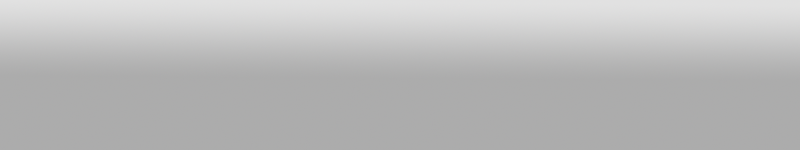
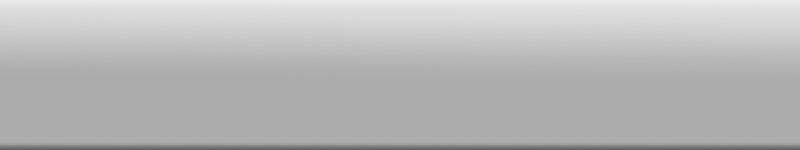
Implemented control panel scrolling. Generalized button location in LayoutManager. Fixed undo button skin. Updated control panel background skin.

Changed region(s): [[0.0, 0.96, 1.0, 1.0]]

diff --git a/Automatone/Automatone/GUI/ControlPanel.cs b/Automatone/Automatone/GUI/ControlPanel.cs
@@ -1,6 +1,8 @@
 //#define USESEED
 
 using System;
+using System.Collections.Generic;
+using System.Linq;
 using System.IO;
 using System.Windows.Forms;
 using System.Runtime.Serialization.Formatters.Binary;
@@ -14,6 +16,8 @@ namespace Automatone.GUI
 {
     public class ControlPanel : SkinNamedWindowControl
     {
+        private SkinNamedButtonControl arrowLeftButton;
+        private SkinNamedButtonControl arrowRightButton;
         private SkinNamedButtonControl generateSongButton;
         private OptionControl playPauseButton;
         private SkinNamedButtonControl stopButton;
@@ -28,6 +32,9 @@ namespace Automatone.GUI
         private SkinNamedButtonControl removeCellsButton;
         private SkinNamedButtonControl undoButton;
 
+        public UniRectangle ArrowLeftBounds { set { arrowLeftButton.Bounds = value; } }
+        public UniRectangle ArrowRightBounds { set { arrowRightButton.Bounds = value; } }
+        /*
         public UniRectangle GenerateSongButtonBounds { set { generateSongButton.Bounds = value; } }
         public UniRectangle PlayPauseButtonBounds { set { playPauseButton.Bounds = value; } }
         public UniRectangle StopButtonBounds { set { stopButton.Bounds = value; } }
@@ -40,7 +47,11 @@ namespace Automatone.GUI
         public UniRectangle PasteButtonBounds { set { pasteButton.Bounds = value; } }
         public UniRectangle RedoButtonBounds { set { redoButton.Bounds = value; } }
         public UniRectangle RemoveCellsButtonBounds { set { removeCellsButton.Bounds = value; } }
-        public UniRectangle UndoButtonBounds { set { undoButton.Bounds = value; } }
+        public UniRectangle UndoButtonBounds { set { undoButton.Bounds = value; } }*/
+
+        private List<UniRectangle> buttonsetBounds;
+
+        private int firstButton;
 
         private ControlPanel() : base()
         {
@@ -65,6 +76,8 @@ namespace Automatone.GUI
             SkinName = "control.panel";
 
             // Construct children
+            arrowLeftButton = new SkinNamedButtonControl();
+            arrowRightButton = new SkinNamedButtonControl();
             playPauseButton = new OptionControl();
             stopButton = new SkinNamedButtonControl();
             newButton = new SkinNamedButtonControl();
@@ -79,100 +92,120 @@ namespace Automatone.GUI
             removeCellsButton = new SkinNamedButtonControl();
             generateSongButton = new SkinNamedButtonControl();
 
+            buttonsetBounds = LayoutManager.Instance.GetButtonsetBounds(13, 0);
+            ResetButtonsetBounds();
+
+            //
+            // arrowLeftButton
+            //
+            arrowLeftButton.Bounds = LayoutManager.Instance.ControlArrowLeftBounds;
+            arrowLeftButton.Pressed += new EventHandler(ArrowLeftPressed);
+            arrowLeftButton.SkinName = "arrow.left";
+
+            //
+            // arrowRightButton
+            //
+            arrowRightButton.Bounds = LayoutManager.Instance.ControlArrowRightBounds;
+            arrowRightButton.Pressed += new EventHandler(ArrowRightPressed);
+            arrowRightButton.SkinName = "arrow.right";
+
             //
             // playPauseButton
             //
-            playPauseButton.Bounds = LayoutManager.Instance.PlayPauseButtonBounds;
+            //playPauseButton.Bounds = LayoutManager.Instance.PlayPauseButtonBounds;
             playPauseButton.Changed += new EventHandler(PlayPauseButtonToggled);
             playPauseButton.Selected = false;
 
             //
             // stopButton
             //
-            stopButton.Bounds = LayoutManager.Instance.StopButtonBounds;
+            //stopButton.Bounds = LayoutManager.Instance.StopButtonBounds;
             stopButton.Pressed += new EventHandler(StopButtonPressed);
             stopButton.SkinName = "stop";
 
             //
             // newButton
             //
-            newButton.Bounds = LayoutManager.Instance.NewButtonBounds;
+            //newButton.Bounds = LayoutManager.Instance.NewButtonBounds;
             newButton.Pressed += new EventHandler(NewButtonPressed);
             newButton.SkinName = "new";
 
             //
             // openButton
             //
-            openButton.Bounds = LayoutManager.Instance.OpenButtonBounds;
+            //openButton.Bounds = LayoutManager.Instance.OpenButtonBounds;
             openButton.Pressed += new EventHandler(OpenButtonPressed);
             openButton.SkinName = "open";
 
             //
             // saveButton
             //
-            saveButton.Bounds = LayoutManager.Instance.SaveButtonBounds;
+            //saveButton.Bounds = LayoutManager.Instance.SaveButtonBounds;
             saveButton.Pressed += new EventHandler(SaveButtonPressed);
             saveButton.SkinName = "save";
 
             //
             // cutButton
             //
-            cutButton.Bounds = LayoutManager.Instance.CutButtonBounds;
+            //cutButton.Bounds = LayoutManager.Instance.CutButtonBounds;
             cutButton.Pressed += new EventHandler(CutButtonPressed);
             cutButton.SkinName = "cut";
             
             //
             // copyButton
             //
-            copyButton.Bounds = LayoutManager.Instance.CopyButtonBounds;
+            //copyButton.Bounds = LayoutManager.Instance.CopyButtonBounds;
             copyButton.Pressed += new EventHandler(CopyButtonPressed);
             copyButton.SkinName = "copy";
             
             //
             // pasteButton
             //
-            pasteButton.Bounds = LayoutManager.Instance.PasteButtonBounds;
+            //pasteButton.Bounds = LayoutManager.Instance.PasteButtonBounds;
             pasteButton.Pressed += new EventHandler(PasteButtonPressed);
             pasteButton.SkinName = "paste";
 
             //
             // undoButton
             //
-            undoButton.Bounds = LayoutManager.Instance.UndoButtonBounds;
+            //undoButton.Bounds = LayoutManager.Instance.UndoButtonBounds;
             undoButton.Pressed += new EventHandler(UndoButtonPressed);
             undoButton.SkinName = "undo";
             
             //
             // redoButton
             //
-            redoButton.Bounds = LayoutManager.Instance.RedoButtonBounds;
+            //redoButton.Bounds = LayoutManager.Instance.RedoButtonBounds;
             redoButton.Pressed += new EventHandler(RedoButtonPressed);
             redoButton.SkinName = "redo";
 
             //
             // addButton
             //
-            addCellsButton.Bounds = LayoutManager.Instance.AddCellsButtonBounds;
+            //addCellsButton.Bounds = LayoutManager.Instance.AddCellsButtonBounds;
             addCellsButton.Pressed += new EventHandler(AddCellsButtonPressed);
             addCellsButton.SkinName = "add.cells";
 
             //
             // removeButton
             //
-            removeCellsButton.Bounds = LayoutManager.Instance.RemoveCellsButtonBounds;
+            //removeCellsButton.Bounds = LayoutManager.Instance.RemoveCellsButtonBounds;
             removeCellsButton.Pressed += new EventHandler(RemoveCellsButtonPressed);
             removeCellsButton.SkinName = "remove.cells";
 
             //
             // generateSongButton
             //
-            generateSongButton.Bounds = LayoutManager.Instance.GenerateSongButtonBounds;
+            //generateSongButton.Bounds = LayoutManager.Instance.GenerateSongButtonBounds;
             generateSongButton.Pressed += new EventHandler(GenerateSongButtonPressed);
             generateSongButton.SkinName = "generate.song";
 
             //
             // Add Children
             //
+            Children.Add(arrowLeftButton);
+            Children.Add(arrowRightButton);
+
             Children.Add(playPauseButton);
             Children.Add(stopButton);
             Children.Add(newButton);
@@ -186,6 +219,38 @@ namespace Automatone.GUI
             Children.Add(addCellsButton);
             Children.Add(removeCellsButton);
             Children.Add(generateSongButton);
+        }
+
+        public void ResetButtonsetBounds()
+        {
+            buttonsetBounds = LayoutManager.Instance.GetButtonsetBounds(buttonsetBounds.Count, firstButton);
+            playPauseButton.Bounds = buttonsetBounds.ElementAt<UniRectangle>(0);
+            stopButton.Bounds = buttonsetBounds.ElementAt<UniRectangle>(1);
+            newButton.Bounds = buttonsetBounds.ElementAt<UniRectangle>(2);
+            openButton.Bounds = buttonsetBounds.ElementAt<UniRectangle>(3);
+            saveButton.Bounds = buttonsetBounds.ElementAt<UniRectangle>(4);
+            cutButton.Bounds = buttonsetBounds.ElementAt<UniRectangle>(5);
+            copyButton.Bounds = buttonsetBounds.ElementAt<UniRectangle>(6);
+            pasteButton.Bounds = buttonsetBounds.ElementAt<UniRectangle>(7);
+            undoButton.Bounds = buttonsetBounds.ElementAt<UniRectangle>(8);
+            redoButton.Bounds = buttonsetBounds.ElementAt<UniRectangle>(9);
+            addCellsButton.Bounds = buttonsetBounds.ElementAt<UniRectangle>(10);
+            removeCellsButton.Bounds = buttonsetBounds.ElementAt<UniRectangle>(11);
+            generateSongButton.Bounds = buttonsetBounds.ElementAt<UniRectangle>(12);
+            arrowLeftButton.Enabled = LayoutManager.Instance.ExcessButtonsLeft;
+            arrowRightButton.Enabled = LayoutManager.Instance.ExcessButtonsRight;
+        }
+
+        private void ArrowLeftPressed(object sender, EventArgs e)
+        {
+            firstButton = Math.Max(0, firstButton - 1);
+            ResetButtonsetBounds();
+        }
+
+        private void ArrowRightPressed(object sender, EventArgs e)
+        {
+            firstButton = Math.Min(buttonsetBounds.Count - 1, firstButton + 1);
+            ResetButtonsetBounds();
         }
 
         public void ResetPlayButton()

diff --git a/Automatone/Automatone/GUI/LayoutManager.cs b/Automatone/Automatone/GUI/LayoutManager.cs
@@ -27,6 +27,12 @@ namespace Automatone.GUI
 
         public const short PARAMETERS_PANEL_HEIGHT = 400;
 
+        public const int CONTROL_ARROW_WIDTH = 32;
+        public const int CONTROL_ARROW_HEIGHT = 96;
+        public const int CONTROL_BUTTON_WIDTH = 64;
+        public const int CONTROL_BUTTON_HEIGHT = 96;
+        public const int CONTROL_BUTTON_SPACING = 10;
+
         private int cellsArrayLengthX;
         private int cellsArrayLengthY;
 
@@ -34,34 +40,20 @@ namespace Automatone.GUI
         private int windowHeight;
 
         private UniRectangle controlPanelBounds;
-        private UniRectangle playPauseButtonBounds;
-        private UniRectangle stopButtonBounds;
-        private UniRectangle newButtonBounds;
-        private UniRectangle openButtonBounds;
-        private UniRectangle saveButtonBounds;
-        private UniRectangle cutButtonBounds;
-        private UniRectangle copyButtonBounds;
-        private UniRectangle pasteButtonBounds;
-        private UniRectangle undoButtonBounds;
-        private UniRectangle redoButtonBounds;
-        private UniRectangle addCellsButtonBounds;
-        private UniRectangle removeCellsButtonBounds;
-        private UniRectangle generateSongButtonBounds;
 
         public UniRectangle ControlPanelBounds { get { return controlPanelBounds; } }
-        public UniRectangle PlayPauseButtonBounds { get { return playPauseButtonBounds; } }
-        public UniRectangle StopButtonBounds { get { return stopButtonBounds; } }
-        public UniRectangle NewButtonBounds { get { return newButtonBounds; } }
-        public UniRectangle OpenButtonBounds { get { return openButtonBounds; } }
-        public UniRectangle SaveButtonBounds { get { return saveButtonBounds; } }
-        public UniRectangle CutButtonBounds { get { return cutButtonBounds; } }
-        public UniRectangle CopyButtonBounds { get { return copyButtonBounds; } }
-        public UniRectangle PasteButtonBounds { get { return pasteButtonBounds; } }
-        public UniRectangle UndoButtonBounds { get { return undoButtonBounds; } }
-        public UniRectangle RedoButtonBounds { get { return redoButtonBounds; } }
-        public UniRectangle AddCellsButtonBounds { get { return addCellsButtonBounds; } }
-        public UniRectangle RemoveCellsButtonBounds { get { return removeCellsButtonBounds; } }
-        public UniRectangle GenerateSongButtonBounds { get { return generateSongButtonBounds; } }
+
+        private UniRectangle controlArrowLeftBounds;
+        private UniRectangle controlArrowRightBounds;
+
+        public UniRectangle ControlArrowLeftBounds { get { return controlArrowLeftBounds; } }
+        public UniRectangle ControlArrowRightBounds { get { return controlArrowRightBounds; } }
+
+        private bool excessButtonsLeft;
+        private bool excessButtonsRight;
+
+        public bool ExcessButtonsLeft { get { return excessButtonsLeft; } }
+        public bool ExcessButtonsRight { get { return excessButtonsRight; } }
 
         private FrameLayout gridPanelLayout;
         private Rectangle gridCellsClickableArea;
@@ -131,22 +123,37 @@ namespace Automatone.GUI
             }
         }
 
+        public List<UniRectangle> GetButtonsetBounds(int buttonCount, int firstButton)
+        {
+            List<UniRectangle> buttonsetBounds = new List<UniRectangle>();
+            excessButtonsLeft = false;
+            excessButtonsRight = false;
+            for (int i = 0; i < buttonCount; i++)
+            {
+                if (i < firstButton)
+                {
+                    buttonsetBounds.Add(new UniRectangle(windowWidth + CONTROL_BUTTON_WIDTH, (CONTROLS_AND_GRID_DIVISION - CONTROL_BUTTON_HEIGHT) / 2, CONTROL_BUTTON_WIDTH, CONTROL_BUTTON_HEIGHT));
+                    excessButtonsLeft = true;
+                }
+                else if ((i - firstButton + 1) * (CONTROL_BUTTON_WIDTH + CONTROL_BUTTON_SPACING) < windowWidth - CONTROL_BUTTON_SPACING * 3 - CONTROL_ARROW_WIDTH * 2)
+                {
+                    buttonsetBounds.Add(new UniRectangle(CONTROL_ARROW_WIDTH + CONTROL_BUTTON_SPACING * (2 + i - firstButton) + CONTROL_BUTTON_WIDTH * (i - firstButton), (CONTROLS_AND_GRID_DIVISION - CONTROL_BUTTON_HEIGHT) / 2, CONTROL_BUTTON_WIDTH, CONTROL_BUTTON_HEIGHT));
+                }
+                else
+                {
+                    buttonsetBounds.Add(new UniRectangle(windowWidth + CONTROL_BUTTON_WIDTH, (CONTROLS_AND_GRID_DIVISION - CONTROL_BUTTON_HEIGHT) / 2, CONTROL_BUTTON_WIDTH, CONTROL_BUTTON_HEIGHT));
+                    excessButtonsRight = true;
+                }
+            }
+            return buttonsetBounds;
+        }
+
         private void CalculateBounds()
         {
             controlPanelBounds = new UniRectangle(0, 0, windowWidth, CONTROLS_AND_GRID_DIVISION);
-            playPauseButtonBounds = new UniRectangle(10, 26, 64, 64);
-            stopButtonBounds = new UniRectangle(84, 26, 64, 64);
-            newButtonBounds = new UniRectangle(158, 10, 64, 96);
-            openButtonBounds = new UniRectangle(232, 10, 64, 96);
-            saveButtonBounds = new UniRectangle(306, 10, 64, 96);
-            cutButtonBounds = new UniRectangle(380, 10, 64, 96);
-            copyButtonBounds = new UniRectangle(454, 10, 64, 96);
-            pasteButtonBounds = new UniRectangle(528, 10, 64, 96);
-            undoButtonBounds = new UniRectangle(602, 10, 64, 96);
-            redoButtonBounds = new UniRectangle(676, 10, 64, 96);
-            addCellsButtonBounds = new UniRectangle(750, 10, 64, 96);
-            removeCellsButtonBounds = new UniRectangle(824, 10, 64, 96);
-            generateSongButtonBounds = new UniRectangle(898, 10, 64, 96);
+
+            controlArrowLeftBounds = new UniRectangle(CONTROL_BUTTON_SPACING, (CONTROLS_AND_GRID_DIVISION - CONTROL_ARROW_HEIGHT) / 2, CONTROL_ARROW_WIDTH, CONTROL_ARROW_HEIGHT);
+            controlArrowRightBounds = new UniRectangle(windowWidth - CONTROL_BUTTON_SPACING - CONTROL_ARROW_WIDTH, (CONTROLS_AND_GRID_DIVISION - CONTROL_ARROW_HEIGHT) / 2, CONTROL_ARROW_WIDTH, CONTROL_ARROW_HEIGHT);
 
             Rectangle outerRectangle = new Rectangle(0, CONTROLS_AND_GRID_DIVISION, windowWidth - RIGHT_SCROLLBAR_THICKNESS, windowHeight - CONTROLS_AND_GRID_DIVISION - BOTTOM_SCROLLBAR_THICKNESS);
             Rectangle innerRectangle = new Rectangle(outerRectangle.X + LEFT_BORDER_THICKNESS, outerRectangle.Y + TOP_BORDER_THICKNESS, outerRectangle.Width - LEFT_BORDER_THICKNESS - RIGHT_BORDER_THICKNESS, outerRectangle.Height - TOP_BORDER_THICKNESS - BOTTOM_BORDER_THICKNESS);
@@ -158,10 +165,10 @@ namespace Automatone.GUI
             horizontalScrollBarBounds = new UniRectangle(gridPanelLayout.InnerRectangle.Left, gridPanelLayout.OuterRectangle.Height, gridPanelLayout.InnerRectangle.Width, BOTTOM_SCROLLBAR_THICKNESS);
             verticalScrollBarBounds = new UniRectangle(gridPanelLayout.OuterRectangle.Width, gridPanelLayout.InnerRectangle.Top - CONTROLS_AND_GRID_DIVISION, RIGHT_SCROLLBAR_THICKNESS, gridPanelLayout.InnerRectangle.Height);
 
-            if(parametersPanelBounds.Top == 0)
-                parametersPanelBounds = new UniRectangle(0, CONTROLS_AND_GRID_DIVISION - PARAMETERS_PANEL_HEIGHT, GenerateSongButtonBounds.Right, PARAMETERS_PANEL_HEIGHT);
+            if (parametersPanelBounds.Top == 0)
+                parametersPanelBounds = new UniRectangle(CONTROL_BUTTON_SPACING, CONTROLS_AND_GRID_DIVISION - PARAMETERS_PANEL_HEIGHT, windowWidth - 2 * CONTROL_BUTTON_SPACING, PARAMETERS_PANEL_HEIGHT);
             else
-                parametersPanelBounds = new UniRectangle(0, parametersPanelBounds.Top, GenerateSongButtonBounds.Right, PARAMETERS_PANEL_HEIGHT);
+                parametersPanelBounds = new UniRectangle(CONTROL_BUTTON_SPACING, parametersPanelBounds.Top, windowWidth - 2 * CONTROL_BUTTON_SPACING, PARAMETERS_PANEL_HEIGHT);
         }
 
         private void RespondToWindowResize(int windowWidth, int windowHeight)
@@ -172,18 +179,10 @@ namespace Automatone.GUI
             CalculateBounds();
 
             ControlPanel.Instance.Bounds = ControlPanelBounds;
-            ControlPanel.Instance.PlayPauseButtonBounds = PlayPauseButtonBounds;
-            ControlPanel.Instance.StopButtonBounds = StopButtonBounds;
-            ControlPanel.Instance.NewButtonBounds = NewButtonBounds;
-            ControlPanel.Instance.OpenButtonBounds = OpenButtonBounds;
-            ControlPanel.Instance.CutButtonBounds = CutButtonBounds;
-            ControlPanel.Instance.CopyButtonBounds = CopyButtonBounds;
-            ControlPanel.Instance.PasteButtonBounds = PasteButtonBounds;
-            ControlPanel.Instance.UndoButtonBounds = UndoButtonBounds;
-            ControlPanel.Instance.RedoButtonBounds = RedoButtonBounds;
-            ControlPanel.Instance.AddCellsButtonBounds = AddCellsButtonBounds;
-            ControlPanel.Instance.RemoveCellsButtonBounds = RemoveCellsButtonBounds;
-            ControlPanel.Instance.GenerateSongButtonBounds = GenerateSongButtonBounds;
+
+            ControlPanel.Instance.ArrowLeftBounds = ControlArrowLeftBounds;
+            ControlPanel.Instance.ArrowRightBounds = controlArrowRightBounds;
+            ControlPanel.Instance.ResetButtonsetBounds();
 
             NavigatorPanel.Instance.Bounds = NavigatorPanelBounds;
             NavigatorPanel.Instance.HorizontalScrollBarBounds = HorizontalScrollBarBounds;
